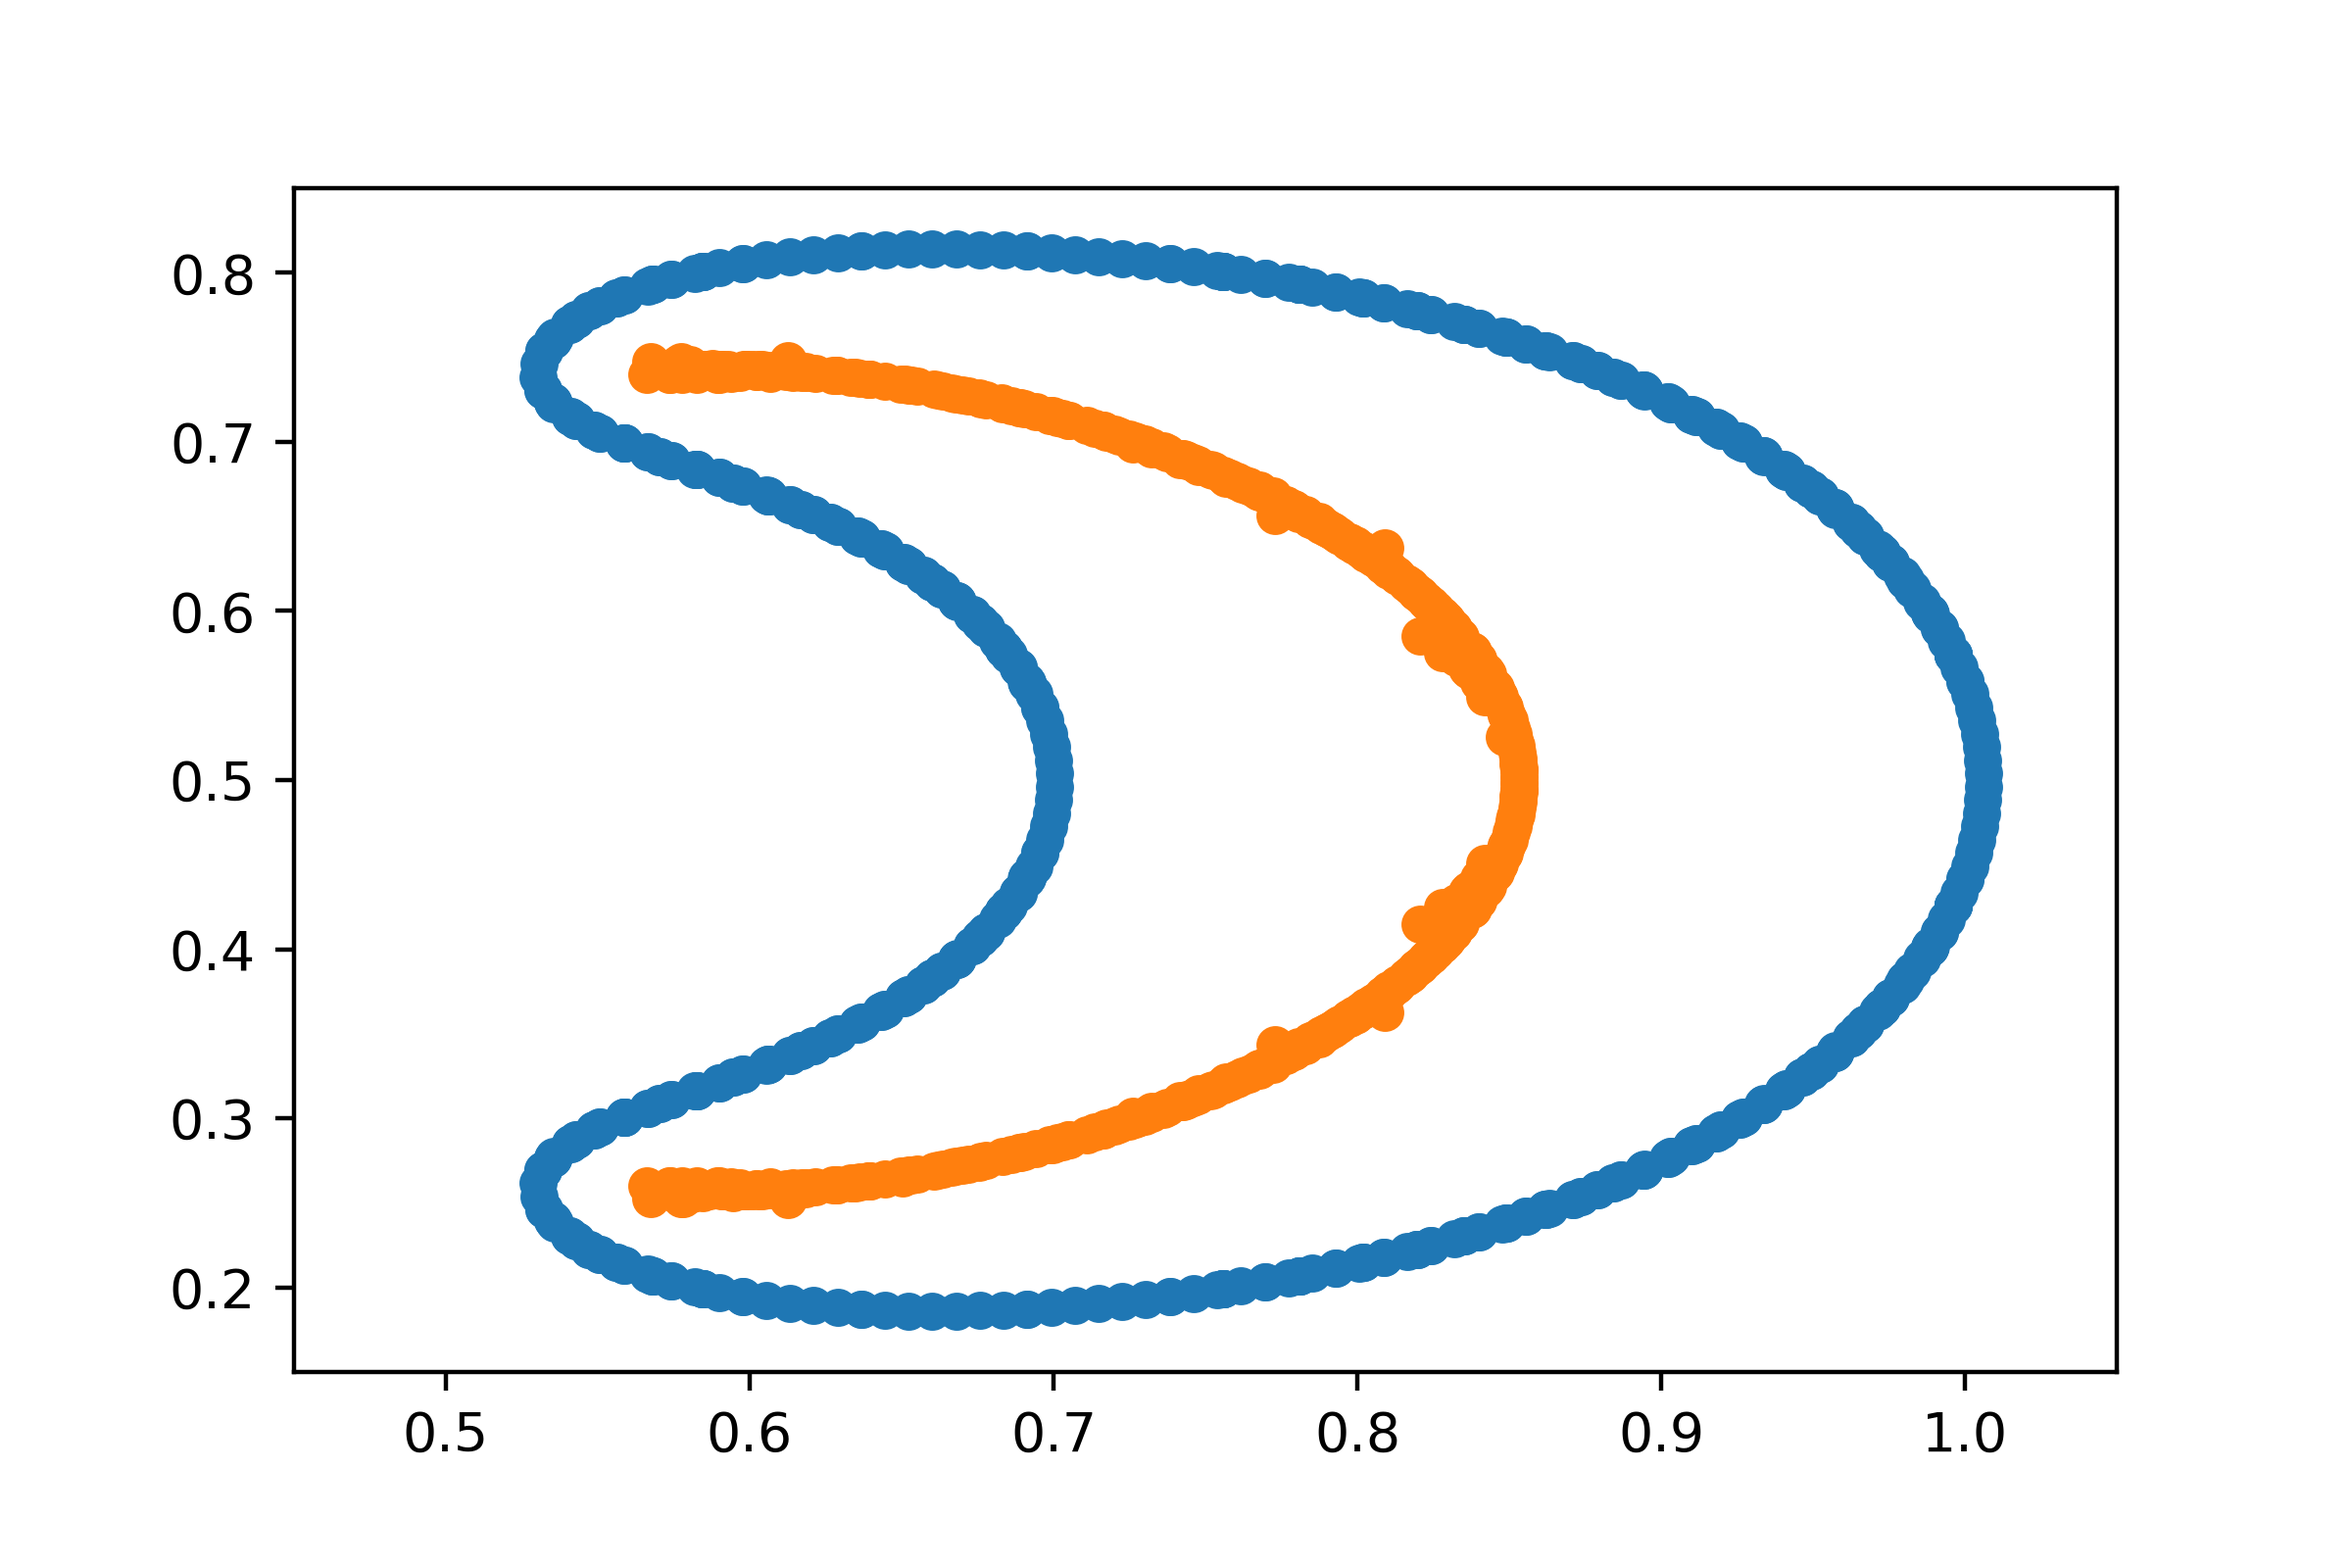
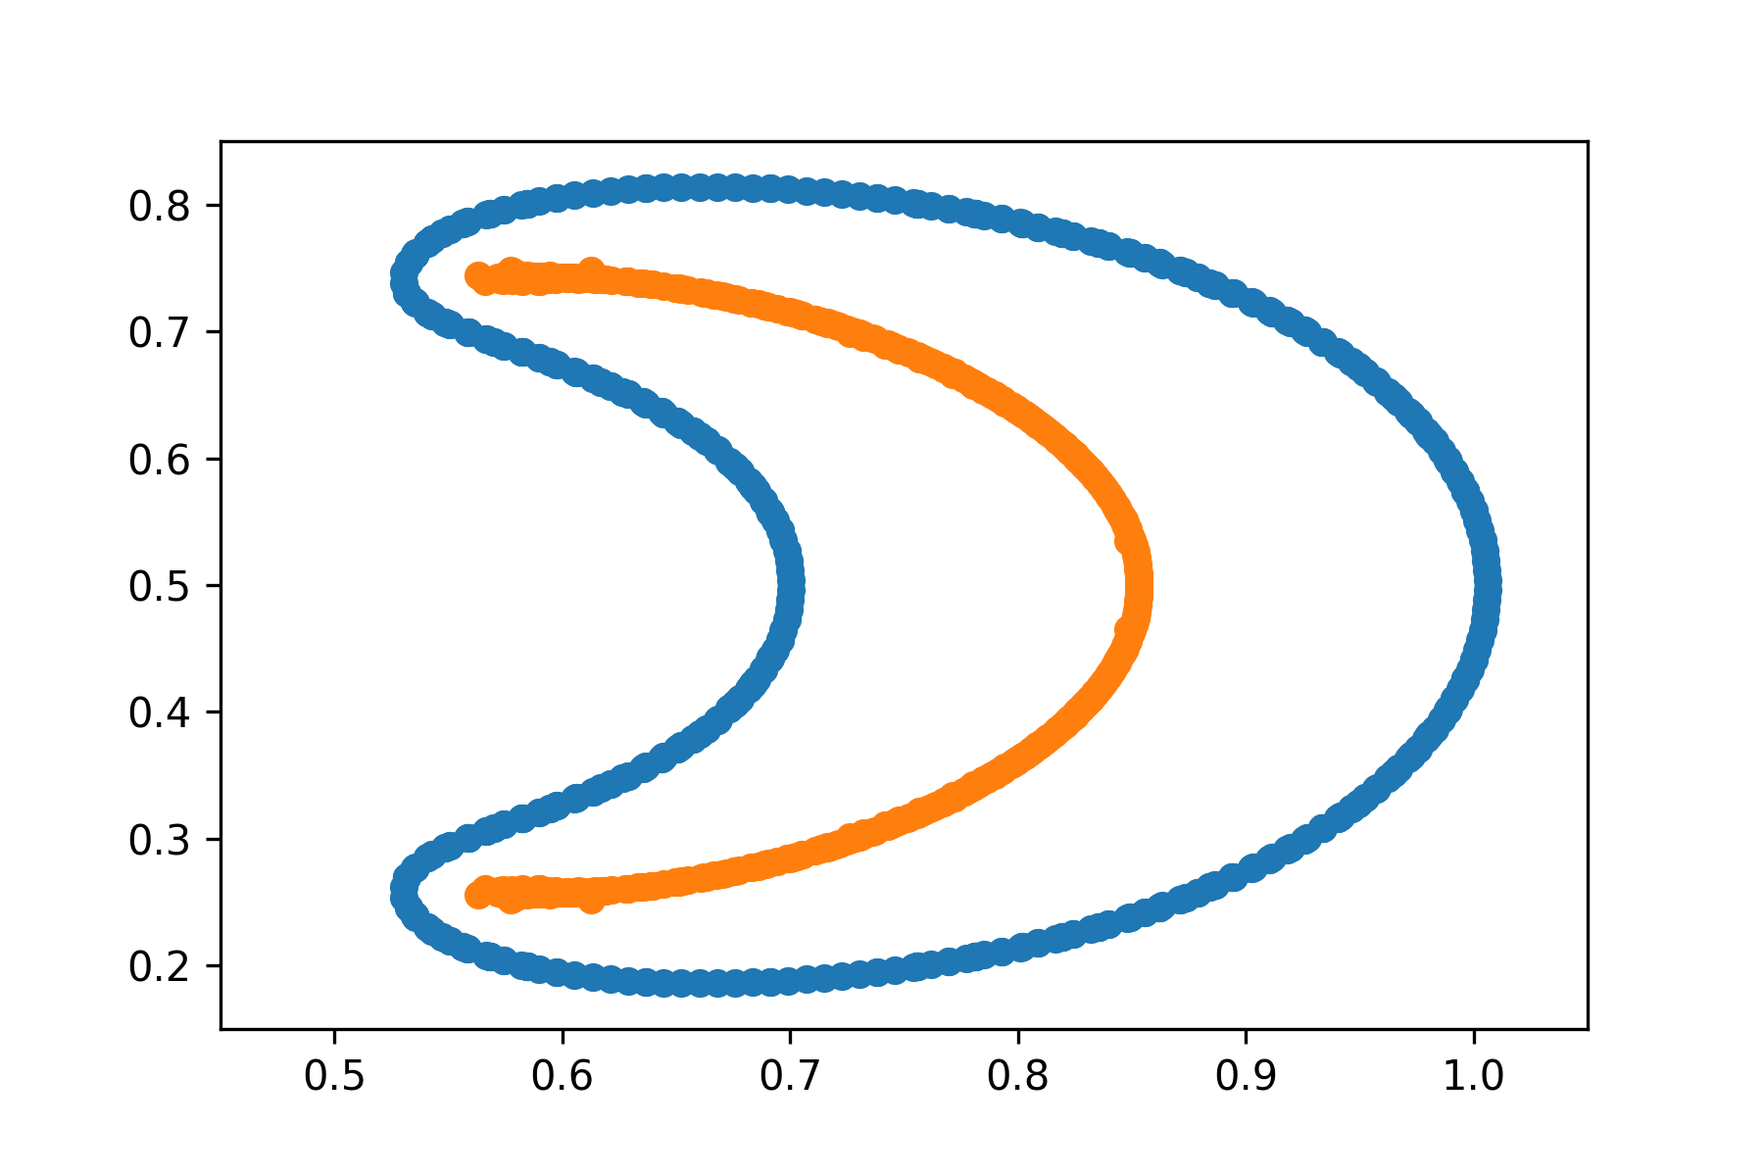
Edits/Bug fixes

diff --git a/Skeletize.py b/Skeletize.py
@@ -40,7 +40,6 @@ def getRadius2D(point1, point2 , norm) -> float:
     dist = getDistance2D(point1,point2)
     
     #Next calculate the midpoint
-    mp = [(point1[0] + point2[0])/2,(point1[1] + point2[1])/2]
     mvec = [point2[0] - point1[0],point2[1] - point1[1]]
     
     #Then find dot product of the norm and mvec
@@ -102,18 +101,18 @@ def thin2D(opts : list, measured : list, finPts : list, finR : list, pointDis):
     tree = kdTree(thin1p, 2)
     tree2 = kdTree(pts,2)
     i = 0
-    while i < len(thin1p):
-        # print(i,'/',len(thin1p) - 1)
-        if getDistance2D(thin1p[i],tree.getNearR(thin1p[i],thin1p[i])) < pointDis and getDistance2D(thin1p[i],tree2.getNearR(thin1p[i],[thin1p[i][0]*13042,thin1p[i][1]*-9827])) > pointDis :
-            thin2p.append(thin1p[i])
-            thin2r.append(thin1r[i])
-        else:
-            animd.append(thin1p[i])
-        i += 1
+    # while i < len(thin1p):
+    #     # print(i,'/',len(thin1p) - 1)
+    #     if getDistance2D(thin1p[i],tree.getNearR(thin1p[i],thin1p[i])) < pointDis and getDistance2D(thin1p[i],tree2.getNearR(thin1p[i],[thin1p[i][0]*13042,thin1p[i][1]*-9827])) > pointDis :
+    #         thin2p.append(thin1p[i])
+    #         thin2r.append(thin1r[i])
+    #     else:
+    #         animd.append(thin1p[i])
+    #     i += 1
         
     print(len(finPts),"-->",len(thin1p),"Through repeat removal")
     print(len(thin1p),"-->",len(thin2p),"Through distance")
-    return thin2p,thin2r,animd
+    return thin1p,thin1r,animd
     
     
 def Skeletize2D(points : list, norms : list,start : int, stop : int):
@@ -188,27 +187,51 @@ def Skeletize2D(points : list, norms : list,start : int, stop : int):
             leng = len(tempr)-1
             
             
+            #INFORMATION CAPTURE FOR ANIMATION
+            if index - 1 >= start and index - 1 <= stop:
+                tacp.append(centerp[len(centerp) - 1])
+                tatp.append(testp)
+                tar.append(tempr[leng-1])
             
-            #for if within the threshold distance of the interface(too close to surface to be reasonable)
-            if getDistance2D(point, testp) < tempr[leng] and i > 2:
+            
+            #check for radius size
+            if tempr[leng] < threshDistance and i > 1:
                 finPoints.append(centerp[len(centerp) - 2])
                 finR.append(tempr[leng - 1])
+                thinPoints.append(point)
+                
+                tacp.append(centerp[len(centerp) - 2])
+                tatp.append(tatp[len(tatp) - 2])
+                tar.append(tempr[leng-1])
+                
+                case = True
+                countbreak += 1
+                break
+            
+            #for if within the threshold distance of the interface(too close to surface to be reasonable)
+            if getDistance2D(point, testp) < tempr[leng] and i > 3:
+                finPoints.append(centerp[len(centerp) - 2])
+                finR.append(tempr[leng - 1])
+                
+                tacp.append(centerp[len(centerp) - 2])
+                tatp.append(tatp[len(tatp) - 2])
+                tar.append(tempr[leng-1])
+                
                 thinPoints.append(point)
                 case = True
                 countbreak += 1
                 break
             
-            #INFORMATION CAPTURE FOR ANIMATION
-            if index - 1 >= start and index - 1 <= stop:
-                tacp.append(centerp[len(centerp) - 1])
-                tatp.append(testp)
-                tar.append(tempr[len(tempr) - 2])
+            
             
             #cases for cacthing when stuck  
-            if tempr[leng] == tempr[leng - 1] and i > 1:
-                
-                finPoints.append(centerp[len(centerp)-1])
-                finR.append(tempr[leng])
+            if np.abs(tempr[leng] - tempr[leng-1]) < 0.00001 and i > 1:
+                if getDistance2D(point, testp) < tempr[leng]:
+                    finPoints.append(centerp[len(centerp) - 2])
+                    finR.append(tempr[leng - 1])
+                else:
+                    finPoints.append(centerp[len(centerp)-1])
+                    finR.append(tempr[leng])
                 thinPoints.append(point)
                 case = True
                 break
@@ -247,6 +270,8 @@ def Skeletize2D(points : list, norms : list,start : int, stop : int):
         if index  != len(points):
             if(len(finR) >=1):
                 guessr = getDistance2D(point,testp)*100
+                if guessr < threshDistance * len(points) / 2:
+                    guessr = threshDistance * len(points) / 2
             else:
                 guessr = 1000
         index = index + 1
@@ -256,6 +281,24 @@ def Skeletize2D(points : list, norms : list,start : int, stop : int):
     animd = []
     anim = []#return for animation info
     #Thins out data and returns correct points. 
+    tx = []
+    ty = []
+    ttx = []
+    tty = []
+    i = 0
+    while i < len(points):
+        tx.append(points[i][0])
+        ty.append(points[i][1])
+        i += 1
+    i = 0
+    while i < len(finPoints):
+        ttx.append(finPoints[i][0])
+        tty.append(finPoints[i][1])
+        i += 1
+    plt.scatter(tx,ty)
+    plt.scatter(ttx,tty)
+    plt.title('Before Removal')
+    plt.savefig('BeforeThin.png')
     fin2Points , fin2R, animd = thin2D(points,thinPoints, finPoints, finR, threshDistance)    
     
     anim.append(acp)

diff --git a/Main.py b/Main.py
@@ -15,7 +15,10 @@ import time
 import Skeletize
 from DataStructures import kdTree
 
-plt.rcParams['figure.dpi'] = 400
+plt.rcParams['figure.dpi'] = 300
+
+theta = np.linspace(0,2*np.pi,100)
+
 
 tstart = time.time()
 IntPoints = []
@@ -150,7 +153,7 @@ TskeleStart = time.time()
 finPoints,finR,animfile,animdfile = Skeletize.Skeletize2D(TestPoints, NormPoints,0 , len(TestPoints))
 # finPoints,finR = Skeletize.Skeletize3D(TestPoints, NormPoints) 
 TskeleEnd = time.time()
-print("Skeletinzation time",TskeleEnd - TskeleStart)
+print("Skeletinzation time",TskeleEnd - TskeleStart,"seconds")
 
 ###PROCESSING DATA INTO FIGURES
 finX = []
@@ -206,14 +209,22 @@ while i < len(finPoints):
 #     i += 1
     
     
-
+plt.clf()
+plt.xlim(0.45,1.05)
+plt.ylim(0.15,0.85)
 plt.scatter(testX, testY, zorder = 1)
 plt.scatter(finX, finY, zorder = 2)
+# i = 0
+# while i < len(finX):
+#     plt.plot(finX[i] + np.cos(theta) * finR[i],finY[i] + np.sin(theta) *finR[i])
+#     i += 1
 plt.savefig("Output.png")
 # ax = plt.axes(projection='3d')
 
-
 ###ANIMATED FIGURE(ANIMFILE holds all information needed for building the animated figures)
+
+# taniStart = time.time()
+
 
 # plt.clf()
 # cx = []
@@ -225,7 +236,6 @@ plt.savefig("Output.png")
 # temp = []
 # i = 0  
 
-# theta = np.linspace(0,2*np.pi,100)
 
 # while i < len(animfile[0]):
 #     calc = calc + len(animfile[0][i])
@@ -273,10 +283,9 @@ plt.savefig("Output.png")
 #         #Plot temporary varibles(change per frame)
 #         tx = []
 #         ty = []
-#         if not(j == 0):
-#             tx.append(animfile[1][i][j-1][0])
-#             ty.append(animfile[1][i][j-1][1])
-#             plt.scatter(tx,ty,color = "blue", marker = "o")
+#         tx.append(animfile[1][i][j-1][0])
+#         ty.append(animfile[1][i][j-1][1])
+#         plt.scatter(tx,ty,color = "blue", marker = "o")
         
 #         tx = []
 #         ty = []
@@ -310,7 +319,7 @@ plt.savefig("Output.png")
 #         plt.plot()
 #         #formatting
 #         plt.title("Current r={}; Current Centerpoint[{},{}]".format(animfile[2][i][j],animfile[0][i][j][0],animfile[0][i][j][1]), size = 8)
-        
+#         plt.xlabel("TestPoint: {} ; TreePoint: {}".format(animfile[3][i],animfile[1][i][j-1]))
         
 #         save = os.getcwd() + "/AnimationData/{:04d}/fig{:04d}.png".format(p,count)
 #         plt.savefig(save) 
@@ -320,7 +329,6 @@ plt.savefig("Output.png")
 #         count += 1
 #         j += 1
 #     i += 1
-    
     
 # #thinning
 # count2 = 0
@@ -372,3 +380,5 @@ plt.savefig("Output.png")
 #     count3 += 1
 #     i += 1
     
+# taniEnd = time.time()
+# print('Animation took {} seconds'.format(taniEnd-taniStart))
